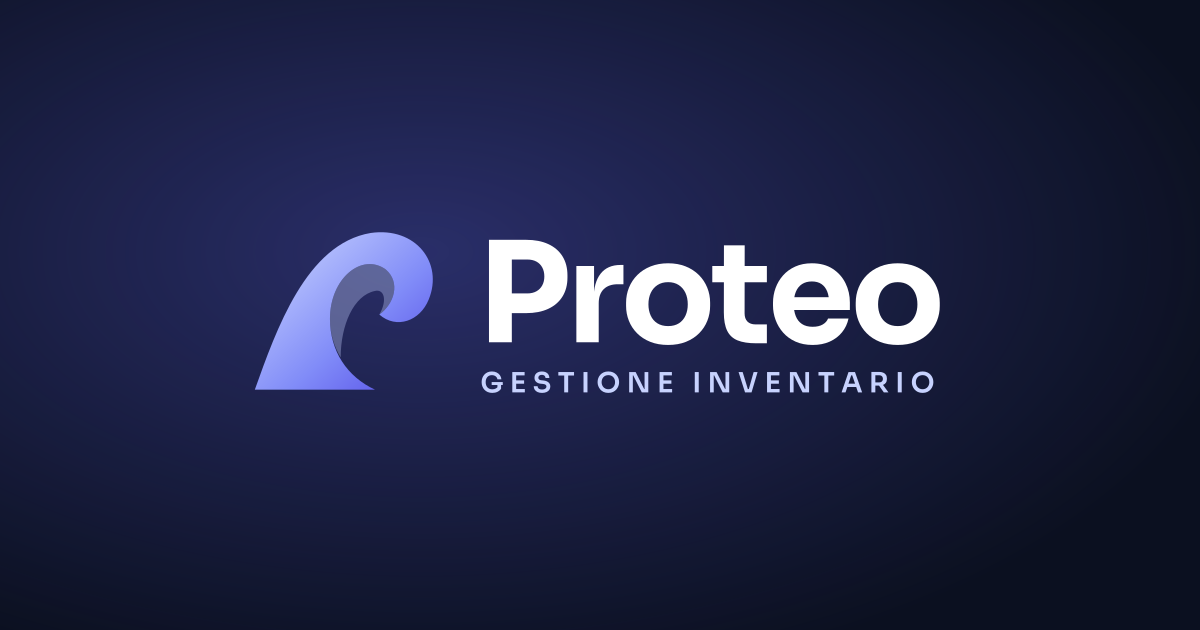
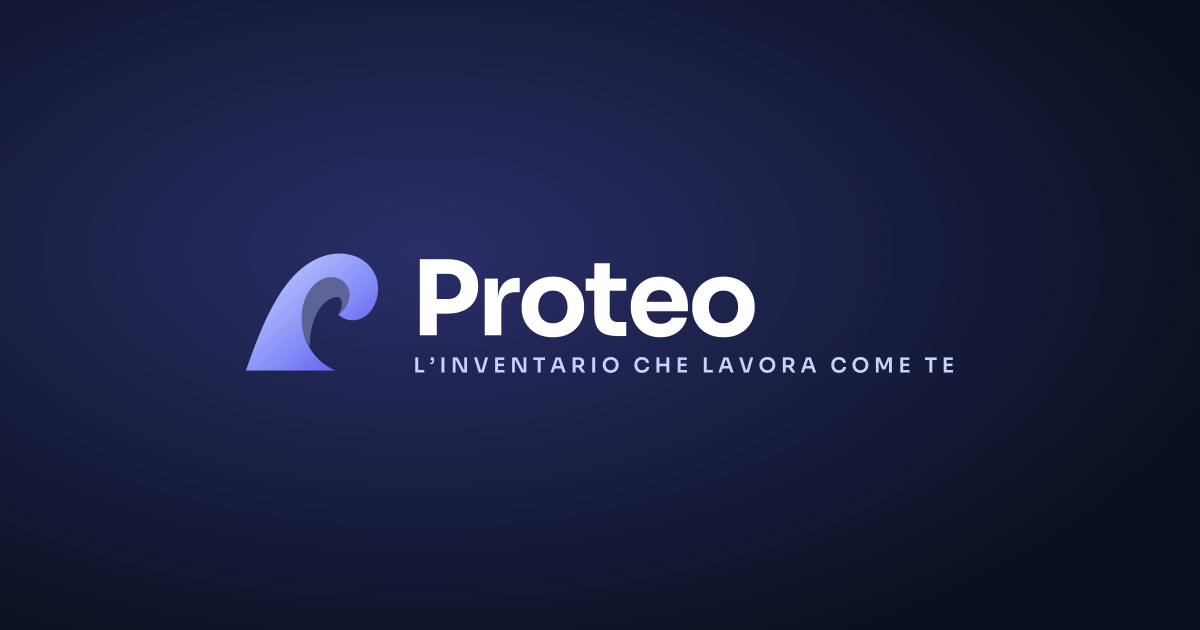
Use "L’inventario che lavora come te" as the Proteo descriptor
Regenerated the descriptor logos, their PNG exports and the social
preview, and updated the brand guidelines.

Claude-Session: https://claude.ai/code/session_014yh5aC3hnLp5nhaR4M9S9B

Changed region(s): [[0.185, 0.3619, 0.8017, 0.6333]]

diff --git a/brand/README.md b/brand/README.md
@@ -14,7 +14,7 @@ barrel gives the mark depth.
 | `svg/proteo-mark-light-bg.svg` | Mark alone, for light backgrounds |
 | `svg/proteo-mark-white.svg`, `svg/proteo-mark-midnight.svg` | Single-colour mark (print, embossing, overlays) |
 | `svg/proteo-logo.svg` / `-white.svg` | Primary horizontal logo, light / dark backgrounds |
-| `svg/proteo-logo-descriptor.svg` / `-white.svg` | Horizontal logo with the "Gestione inventario" descriptor |
+| `svg/proteo-logo-descriptor.svg` / `-white.svg` | Horizontal logo with the "L’inventario che lavora come te" descriptor |
 | `svg/proteo-logo-stacked.svg` / `-white.svg` | Stacked logo for square spaces |
 | `svg/proteo-logo-mono-midnight.svg` / `-mono-white.svg` | Single-colour logo |
 | `svg/proteo-wordmark.svg` / `-white.svg` | Wordmark alone |
